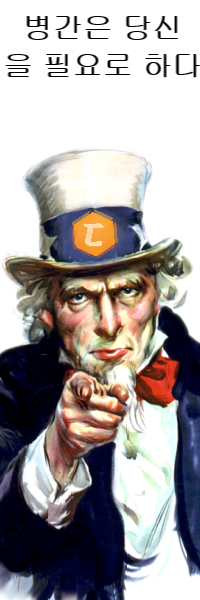
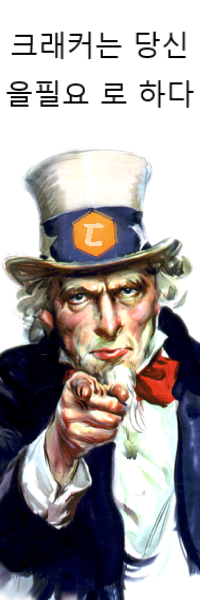
binggan to cracker

Changed region(s): [[0.03, 0.0, 0.99, 0.18]]

diff --git a/april-fools/script.js b/april-fools/script.js
@@ -32,6 +32,7 @@ roll1.onclick = function() {
     }
     mode1.childNodes.forEach(node => node.disabled = true)
     let arr = "abcdefghijklmnopqrstuvwxyz"
+    viewer.style.width = "500px"
     let interval = setInterval(() => {
         let result = arr.split("").shuffle()
         result[0] = result[0].toUpperCase()
@@ -46,6 +47,7 @@ roll1.onclick = function() {
         }
         let str = result.toChineseString().split("")
         str[0] = str[0].toUpperCase()
+        viewer.style.width = "fit-content"
         viewer.innerHTML = str.join("")
         excpt.value = result.toString().concat(" ").concat(excpt.value.concat(" ")).trim()
     }, 2500)

diff --git a/index.html b/index.html
@@ -1,14 +1,14 @@
 <!DOCTYPE html>
-<html>
+<html lang="zh-CN">
     <head>
         <meta charset="utf-8">
         <title>抓阄数字</title>
         <script>
-            let date = new Date().getMonth() * 100 + new Date().getDate()
-            if(date === 301) {
+            let date = new Date().getMonth() * 32 + new Date().getDate()
+            if(date === 97) {
                 location.replace("./april-fools/")
             }
-            if(date === 909) {
+            if(date === 297) {
                 location.replace("./hangeul/")
             }
         </script>

diff --git a/hangeul/index.html b/hangeul/index.html
@@ -121,7 +121,7 @@
         </div>
         <header>
             <h1>
-                훈〮민져ᇰᅙᅳᇝ날〮<br>
+                훈〮민져ᇰᅙᅳᇝ 날〮<br>
                 ᅘᅡᆫ귁〮쵹망〯ᄆᆡᆼ톙〯고ᇢ드ᇰ〯ᅘᅡᆨ〮교ᇢ〮
             </h1>
         </header>

diff --git a/april-fools/style.css b/april-fools/style.css
@@ -41,6 +41,9 @@ input.button-input {
     font-size: 20px;
     padding: 10px;
 }
+input.button-input:disabled {
+    background-color: rgba(239, 239, 239, 0.3);
+}
 input.checkbox-input {
     width: 70px;
     height: 20px;

diff --git a/hangeul/style.css b/hangeul/style.css
@@ -53,6 +53,9 @@ input.button-input {
     font-size: 20px;
     padding: 10px;
 }
+input.button-input:disabled {
+    background-color: rgba(239, 239, 239, 0.3);
+}
 input.checkbox-input {
     width: 70px;
     height: 20px;

diff --git a/style.css b/style.css
@@ -42,6 +42,9 @@ input.button-input {
     font-size: 20px;
     padding: 10px;
 }
+input.button-input:disabled {
+    background-color: rgba(255, 0, 0, 0.3);
+}
 input.checkbox-input {
     width: 70px;
     height: 20px;

diff --git a/april-fools/index.html b/april-fools/index.html
@@ -1,5 +1,5 @@
 <!DOCTYPE html>
-<html>
+<html lang="en-UK">
     <head>
         <meta charset="utf-8">
         <title>Number Roll</title>
